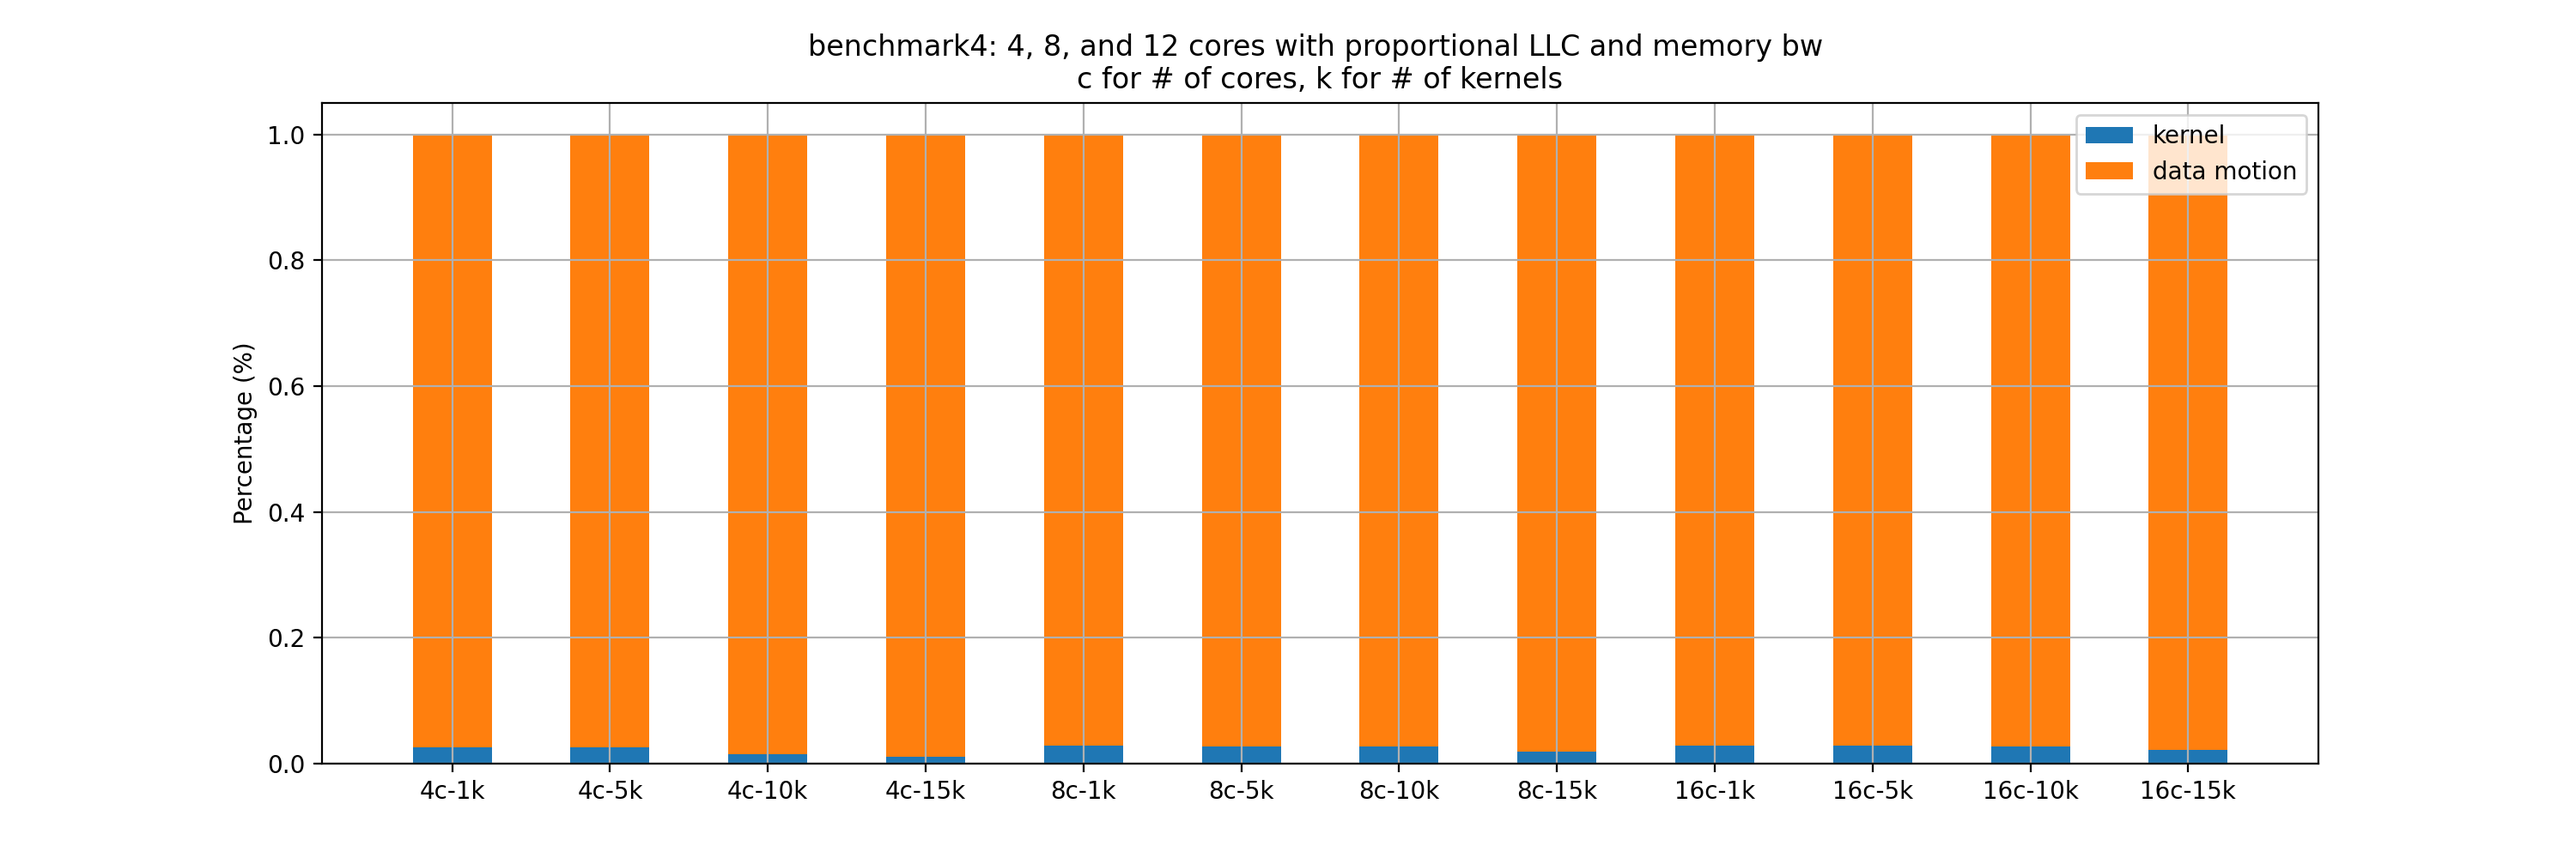
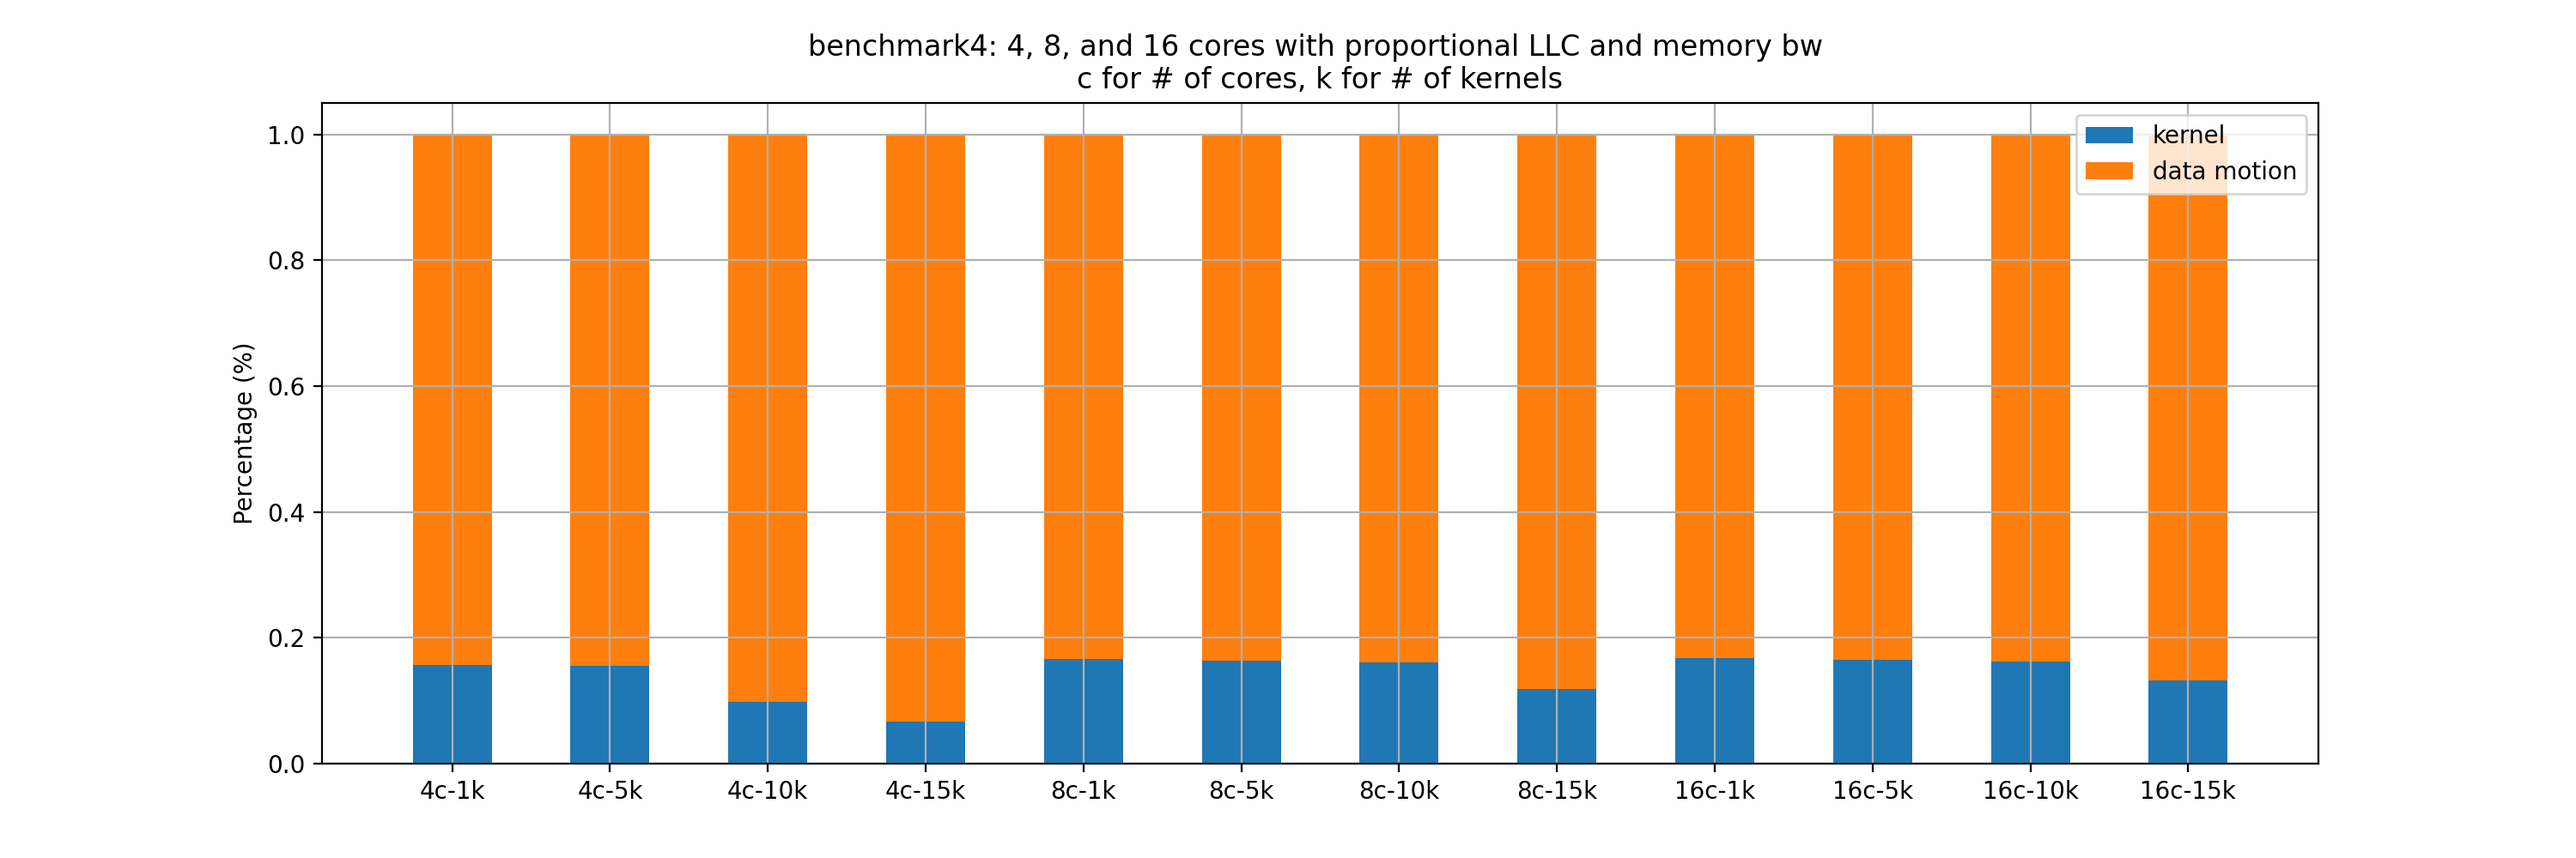
Acc plots first pass

diff --git a/breakdown_acc.py b/breakdown_acc.py
@@ -2,6 +2,7 @@ import matplotlib.pyplot as plt
 import numpy as np
 from scipy.stats import gmean
 import sys
+from pcie_dma_model import dma_transfer_time
 
 #B1: camera: video -> YOLO, 1080*720*4*32
 #B2: audio:  FFT -> SVM, 1024*768
@@ -22,96 +23,176 @@ import sys
 # data_motion= np.array([0.437, 0.888, 0.426, 0.875, 0.224, 0.749, 0.151, 0.693])
 # kernel = np.array([0.563, 0.112, 0.574, 0.125, 0.776, 0.251, 0.849, 0.307])
 
+b1_shape = (4,1024,768)
+b1_data_size = b1_shape[0] * b1_shape[1] * b1_shape[2]
 
+b2_shape = (4,1024,1024)
+b2_data_size = b2_shape[0] * b2_shape[1] * b2_shape[2]
+
+b3_shape = (4,1024,768)
+b3_data_size = b3_shape[0] * b3_shape[1] * b3_shape[2]
+
+b4_shape = (128,768,16)
+b4_data_size = b4_shape[0] * b4_shape[1] * b4_shape[2]
+
+b5_shape = (4, 1024, 512)
+b5_data_size = b5_shape[0] * b5_shape[1] * b5_shape[2]
 
 b1_k1 = 16.66/8
-b2_k1 = 22.801/8
-b3_k1 = 30.507/8
-b4_k1 = 1.138/2
-b5_k1 = 8.095/8
+b2_k1 = 91.521/8
+b3_k1 = 30.507/8 # checked
+b4_k1 = 1.138*2
+b5_k1 = 8.095
 
-b1_k2 = 38.3/8  
+b1_k2 = 38.3/2  
 b2_k2 = 21.12/8
 b3_k2 = 31.85/8
-b4_k2 = 7.761/8
-b5_k2 = 6.602/8
+b4_k2 = 7.761*1.5
+b5_k2 = 6.602
 
-b1_dma = 921.316 * 0.001 * 2 # round-trip DMA in ms
-b2_dma = 1228.153 * 0.001 * 2
-b3_dma = 921.316 * 0.001 * 2
-b4_dma = 460.365 * 0.001 * 2
-b5_dma =  614.113 * 0.001 *2
+# b1_dma = 921.316 * 0.001 * 2 # round-trip DMA in ms
+# b2_dma = 1228.153 * 0.001 * 2
+# b3_dma = 921.316 * 0.001 * 2
+# b4_dma = 460.365 * 0.001 * 2
+# b5_dma =  614.113 * 0.001 *2
 
 #an end-to-end overhead of 70ns for CXL reads, compared to NUMA-local DRAM reads
 control_pool_overhead = 70*0.001*0.001 # ns to ms
 
-b1 = b1_k1 + b1_k2 + b1_dma + control_pool_overhead
-b2 = b2_k1 + b2_k2 + b2_dma + control_pool_overhead
-b3 = b3_k1 + b3_k2 + b3_dma + control_pool_overhead
-b4 = b4_k1 + b4_k2 + b4_dma + control_pool_overhead
-b5 = b5_k1 + b5_k2 + b5_dma + control_pool_overhead
-# 4, 8, 16 cores for 1, 5 ,10, 15 kernels
 benchmark_name = sys.argv[1]
+# pci_gen = sys.argv[2]
+# cpu_vendor = sys.argv[3]
+pci_gen = "gen3"
+cpu_vendor = "intel"
+# def dma_transfer_time(data_size:int, num_kernel: int, pcie_gen: str, cpu_vendor: str) -> float: 
+b1_dma_1k = dma_transfer_time(b1_data_size, 1, pci_gen, cpu_vendor)
+b1_dma_5k = dma_transfer_time(b1_data_size, 5, pci_gen, cpu_vendor)
+b1_dma_10k = dma_transfer_time(b1_data_size, 10, pci_gen, cpu_vendor)
+b1_dma_15k = dma_transfer_time(b1_data_size, 15, pci_gen, cpu_vendor)
+#print([b1_dma_1k, b1_dma_5k, b1_dma_10k, b1_dma_15k])
 
-cpu_kernel = np.ones(12)
-second_cpu_kernel = np.ones(12)
+b1_dma_1k = dma_transfer_time(b1_data_size, 1, pci_gen, cpu_vendor)
+b1_dma_5k = dma_transfer_time(b1_data_size, 5, pci_gen, cpu_vendor)
+b1_dma_10k = dma_transfer_time(b1_data_size, 10, pci_gen, cpu_vendor)
+b1_dma_15k = dma_transfer_time(b1_data_size, 15, pci_gen, cpu_vendor)
+#print([b1_dma_1k, b1_dma_5k, b1_dma_10k, b1_dma_15k])
+
+b2_dma_1k = dma_transfer_time(b2_data_size, 1, pci_gen, cpu_vendor)
+b2_dma_5k = dma_transfer_time(b2_data_size, 5, pci_gen, cpu_vendor)
+b2_dma_10k = dma_transfer_time(b2_data_size, 10, pci_gen, cpu_vendor)
+b2_dma_15k = dma_transfer_time(b2_data_size, 15, pci_gen, cpu_vendor)
+
+b3_dma_1k = dma_transfer_time(b3_data_size, 1, pci_gen, cpu_vendor)
+b3_dma_5k = dma_transfer_time(b3_data_size, 5, pci_gen, cpu_vendor)
+b3_dma_10k = dma_transfer_time(b3_data_size, 10, pci_gen, cpu_vendor)
+b3_dma_15k = dma_transfer_time(b3_data_size, 15, pci_gen, cpu_vendor)
+
+b4_dma_1k = dma_transfer_time(b4_data_size, 1, pci_gen, cpu_vendor)
+b4_dma_5k = dma_transfer_time(b4_data_size, 5, pci_gen, cpu_vendor)
+b4_dma_10k = dma_transfer_time(b4_data_size, 10, pci_gen, cpu_vendor)
+b4_dma_15k = dma_transfer_time(b4_data_size, 15, pci_gen, cpu_vendor)
+
+b5_dma_1k = dma_transfer_time(b5_data_size, 1, pci_gen, cpu_vendor)
+b5_dma_5k = dma_transfer_time(b5_data_size, 5, pci_gen, cpu_vendor)
+b5_dma_10k = dma_transfer_time(b5_data_size, 10, pci_gen, cpu_vendor)
+b5_dma_15k = dma_transfer_time(b5_data_size, 15, pci_gen, cpu_vendor)
+
+b1 = b1_k1 + b1_k2
+#b1_movement = b1_dma + control_pool_overhead 
+b2 = b2_k1 + b2_k2
+#b2_movement = b2_dma + control_pool_overhead 
+b3 = b3_k1 + b3_k2 
+#b3_movement = b3_dma + control_pool_overhead
+b4 = b4_k1 + b4_k2
+#b4_movement = b4_dma + control_pool_overhead
+b5 = b5_k1 + b5_k2
+#b5_movement = b5_dma + control_pool_overhead
+# 4, 8, 16 cores for 1, 5 ,10, 15 kernels
 
 
-fig_title = f'{benchmark_name}: 4, 8, and 12 cores with proportional LLC and memory bw \nc for # of cores, k for # of kernels'
+acc_kernel = np.ones(12)
+second_kernel = np.ones(12)
+#data_movement = np.ones(12)
+
+
+fig_title = f'{benchmark_name}: 4, 8, and 16 cores with proportional LLC and memory bw\n' + "c for # of cores, k for # of kernels, " + f"PCIe {pci_gen} with CPU vendor {cpu_vendor}"
+
 
 labels = [f'4c-1k', f'4c-5k', f'4c-10k' , f'4c-15k', 
           f'8c-1k', f'8c-5k', f'8c-10k' , f'8c-15k',  
           f'16c-1k', f'16c-5k', f'16c-10k' , f'16c-15k']
 if benchmark_name == "benchmark2":
-    e2e = np.array([64.448, 109.906, 224.654, 343.100,
-                    28.070, 51.743, 102.899, 155.003,
-                    22.706, 51.117, 101.510, 154.074])
-    second_cpu_kernel.fill(b2_k2)
-    cpu_kernel.fill(b2)
+    e2e = np.array([64.869, 108.695, 217.210, 331.811,
+                    28.110, 51.153, 102.879, 154.617,
+                    22.334, 50.579, 100.806, 153.319])
+    second_kernel.fill(b2_k2)
+    acc_kernel.fill(b2)
+    data_movement = [b2_dma_1k, b2_dma_5k, b2_dma_10k, b2_dma_15k] * 3
+    data_movement = np.array(data_movement)
+    data_movement = data_movement + control_pool_overhead    
+    #print(data_movement)
+    #exit()
 elif benchmark_name == "benchmark3":
-    e2e = np.array([56.560, 106.481, 213.897, 324.556,
-                    50.039, 47.955, 94.817, 145.658,
-                    28.111, 47.446, 93.278, 141.426])
-    second_cpu_kernel.fill(b3_k2)
-    cpu_kernel.fill(b3)
+    e2e = np.array([57.164, 107.751, 213.897, 328.855,
+                    30.178, 47.783, 95.118, 145.566,
+                    20.77, 47.276, 93.770, 142.145])
+    second_kernel.fill(b3_k2)
+    acc_kernel.fill(b3)
+    data_movement = [b3_dma_1k, b3_dma_5k, b3_dma_10k, b3_dma_15k] * 3
+    data_movement = np.array(data_movement)
+    data_movement = data_movement + control_pool_overhead
 elif benchmark_name == "benchmark1":
-    e2e = np.array([65.778, 114.323, 231.393, 355.835,
-                    34.533, 63.499, 105.247, 158.783,
-                    48.078, 63.743, 91.783, 125.691])
-    second_cpu_kernel.fill(b1_k2)
-    cpu_kernel.fill(b1)
+    e2e = np.array([65.756, 116.895, 230.675, 354.092,
+                    50.006, 66.734, 103.713, 157.667,
+                    47.851, 64.933, 92.831, 126.483])
+    second_kernel.fill(b1_k2)
+    acc_kernel.fill(b1)
+    data_movement = [b1_dma_1k, b1_dma_5k, b1_dma_10k, b1_dma_15k] * 3
+    data_movement = np.array(data_movement)
+    data_movement = data_movement + control_pool_overhead
 elif benchmark_name == "benchmark4":
     e2e = np.array([76.118, 76.981, 129.35, 197.469,
                     71.135, 72.709, 74.250, 104.201,
                     70.431, 71.660, 73.014, 93.102])
-    second_cpu_kernel.fill(b4_k2)
-    cpu_kernel.fill(b4)
+    second_kernel.fill(b4_k2)
+    acc_kernel.fill(b4)
+    data_movement = [b4_dma_1k, b4_dma_5k, b4_dma_10k, b4_dma_15k] * 3
+    data_movement = np.array(data_movement)
+    data_movement = data_movement + control_pool_overhead
 elif benchmark_name == "benchmark5":
     e2e = np.array([136.946, 201.275, 404.315, 614.216,
                     75.604, 114.644, 183.729, 270.437,
                     62.378, 110.997, 169.177, 232.950])
-    second_cpu_kernel.fill(b5_k2)
-    cpu_kernel.fill(b5)
+    second_kernel.fill(b5_k2)
+    acc_kernel.fill(b5)
+    data_movement = [b5_dma_1k, b5_dma_5k, b5_dma_10k, b5_dma_15k] * 3
+    data_movement = np.array(data_movement)
+    data_movement = data_movement + control_pool_overhead
 else:
     print(f"invalid benchmark name {benchmark_name}")
 
-total = e2e + second_cpu_kernel
-data_motion = total - cpu_kernel
+data_movement = data_movement*4
+total = e2e + second_kernel + data_movement
+data_motion = total - acc_kernel - data_movement
 data_motion_ratio = data_motion/total
-cpu_kernel_ratio  = cpu_kernel/total
-
+data_movement_ratio = data_movement/total
+acc_kernel_ratio  = acc_kernel/total
+print(data_movement_ratio)
 
 fig, ax = plt.subplots(figsize=(15,5))
 #ax.bar(labels, e2e, width=0.5, label='emulated kernel + data motion')
-ax.bar(labels, cpu_kernel_ratio, width=0.5, label='kernel')
-bottom = cpu_kernel_ratio
+ax.bar(labels, acc_kernel_ratio, width=0.5, label='kernel')
+bottom = acc_kernel_ratio
 ax.bar(labels, data_motion_ratio, width=0.5, bottom=bottom, label='data motion')
+bottom = acc_kernel_ratio + data_motion_ratio
+ax.bar(labels, data_movement_ratio, width=0.5, bottom=bottom, label='dma')
+
 ax.legend(loc='best')
 ax.set_ylabel('Percentage (%)')
 ax.grid(True)
 #ax.set_ylabel('Latency (ms)')
 #plt.show()
 ax.set_title(fig_title)
-plt.savefig(f'breakdown_{benchmark_name}_acc.png', format='png', dpi=200)
+plt.savefig(f'breakdown_{benchmark_name}_accrun.png', format='png', dpi=200)
 
 #fig, ax = plt.subplots(figsize=(5,5))

diff --git a/pcie_dma_model.py b/pcie_dma_model.py
@@ -1,0 +1,96 @@
+import numpy as np
+
+def dma_transfer_time(data_size:int, num_kernel: int, pcie_gen: str, cpu_vendor: str) -> float:
+    pcie_mps = 256 # max_payload_size of PCIe we assume, which is very common
+    mem_wrtie_hdr = 24 # 2B framing, 6B DLL header, 4B TLP header, and 12B MWr header
+    raw_size = data_size
+    data_size = np.ceil(data_size/pcie_mps) * mem_wrtie_hdr + data_size
+    #print(f"total size {data_size}, raw size {raw_size}")
+
+    time = 0
+    # 240 lanes for 15 kernels using 16 lanes each 
+    # AMD has 128 lanes PCIe 3.0 on its Zen Gen1 CPU
+    # We can have 8 upstream ports with x16, 15 downstream ports. 
+    # 240/16 = 15. We’ll do it as 16 downstream ports with x16 in total. 
+    # Each PCIe switch accommodates 2 accelerators and use 48-lane PCIe switches.
+    #
+    # x16 has 15.754 GB/s
+    if pcie_gen == "gen3" and cpu_vendor == "amd": 
+        acc_pcie_lane = 16
+        cpu_pcie_lane = 128
+        full_rate = 15.754 * 1e9 # x16 rate
+        if acc_pcie_lane * num_kernel > cpu_pcie_lane:
+        # we need to use PCIe switch with x16 upstream port
+        # the exec time is determined by the slowest kernel. 10 kernels and 15 kernels 
+        # are the same as they both need a layer of PCIe switches
+        # for both of them 2 acceelerator per switch
+        # time * rate = size, time = size/rate
+            rate = full_rate/2
+        else:
+            rate = full_rate
+
+    elif pcie_gen == "gen3" and cpu_vendor == "intel": 
+        acc_pcie_lane = 16
+        cpu_pcie_lane = 48
+        full_rate = 15.754 * 1e9 # x16 rate
+        if acc_pcie_lane * num_kernel > cpu_pcie_lane:
+            # for the case of 5, 10, 15 kernels
+            if num_kernel == 5:
+            # 5*16=80 lanes, 80/3 = (32, 32, 16)
+                rate = full_rate/2
+            elif num_kernel == 10:
+            # 10*16=160 lanes, 160/3 = (64, 48, 48)
+                rate = full_rate/4
+            elif num_kernel == 15:
+            # 15*16=240 lanes, 240/3 = (80, 80, 80)
+                rate = full_rate/5
+            else:
+                print("un-supported number of kernels")
+        else:
+            rate = full_rate
+
+    elif pcie_gen == "gen4" and cpu_vendor == "amd":
+        acc_pcie_lane = 8
+        cpu_pcie_lane = 128
+        full_rate = 15.754 * 1e9 # x8 rate
+        if acc_pcie_lane * num_kernel > cpu_pcie_lane:
+            print("no calculation now, unlikely to be here")
+        else:
+            rate = full_rate
+
+    elif pcie_gen == "gen4" and cpu_vendor == "intel":
+        acc_pcie_lane = 8
+        cpu_pcie_lane = 64
+        full_rate = 15.754 * 1e9 # x8 rate
+        if acc_pcie_lane * num_kernel > cpu_pcie_lane:
+            if num_kernel == 10:
+            # 10*8=80 lanes, 80/4 = (24, 24, 16, 16)
+                rate = full_rate/3
+            elif num_kernel == 15:
+            # 15*8=120 lanes, 120/4 = (32,32,32,24)
+                rate = full_rate/4
+            else:
+                print("un-supported number of kernels")
+        else:
+            rate = full_rate
+    elif pcie_gen == "gen5" and cpu_vendor == "amd":
+        acc_pcie_lane = 4
+        cpu_pcie_lane = 128
+        full_rate = 15.754 * 1e9 # x4 rate
+        if acc_pcie_lane * num_kernel > cpu_pcie_lane:
+            print("no calculation now, unlikely to be here")          
+        else:
+            rate = full_rate
+    elif pcie_gen == "gen5" and cpu_vendor == "intel":
+        acc_pcie_lane = 4
+        cpu_pcie_lane = 80
+        full_rate = 15.754 * 1e9 # x4 rate
+        if acc_pcie_lane * num_kernel > cpu_pcie_lane:
+            print("no calculation now, unlikely to be here")         
+        else:
+            rate = full_rate
+    else:
+        print("un-supported")
+
+    time = data_size/rate
+    return time * 1000 # in ms
